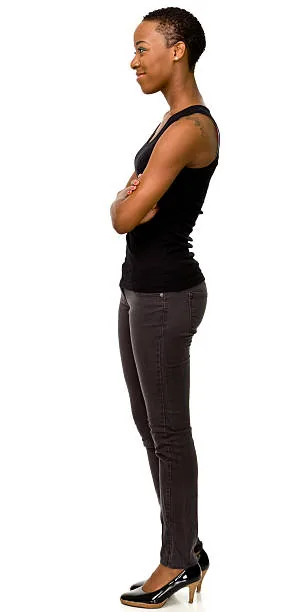
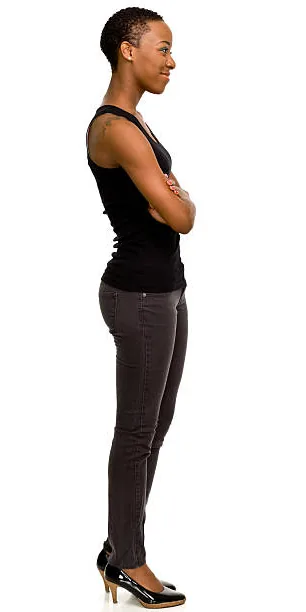
Make body and spine images consistently oriented, no mirrored text

Changed region(s): [[0.2647, 0.0, 0.7353, 1.0]]

diff --git a/site/index.html b/site/index.html
@@ -88,15 +88,15 @@
           <h3>La colonne vue de profil</h3>
           <div class="compare compare-tall">
             <figure>
-              <img src="img/colonne-1934.webp" width="472" height="795" loading="lazy" alt="Coupe anatomique ancienne du tronc, de profil, avec la colonne vertébrale à droite, l'estomac et la vessie à gauche ; deux flèches rouges désignent le dos et le bas du dos.">
+              <img src="img/colonne-1934.webp" width="472" height="795" loading="lazy" alt="Coupe anatomique ancienne du tronc, de profil, avec la colonne vertébrale à gauche, l'estomac et la vessie à droite ; deux flèches rouges désignent le dos et le bas du dos.">
               <figcaption><strong>1934.</strong> Coupe tirée de <a href="#ref-pauchet"><cite>L'Anatomie en poche</cite></a> (V. Pauchet et S. Dupret).</figcaption>
             </figure>
             <figure>
-              <img src="img/colonne-moderne.webp" width="195" height="950" loading="lazy" alt="Planche d'anatomie moderne : colonne vertébrale humaine vue de profil, du rachis cervical au sacrum, le dos orienté vers la droite.">
+              <img src="img/colonne-moderne.webp" width="195" height="950" loading="lazy" alt="Planche d'anatomie moderne : colonne vertébrale humaine vue de profil, du rachis cervical au sacrum, le dos orienté vers la gauche.">
               <figcaption><strong>Aujourd'hui.</strong> Planche d'anatomie moderne (<a href="https://www.chirurgie-rachidienne.com/anatomie-2/">chirurgie-rachidienne.com</a>).</figcaption>
             </figure>
           </div>
-          <p class="src">La planche de 1934 est retournée horizontalement (son texte apparaît donc inversé) et la planche moderne est présentée sans ses légendes, pour que les deux colonnes soient orientées comme les corps ci-dessus, dos à droite. Ces images sont des représentations, pas des mesures : elles servent à comparer visuellement.</p>
+          <p class="src">La planche moderne est retournée horizontalement et présentée sans ses légendes, et les photographies de l'ouvrier et de la femme sont retournées, pour que tous les corps et colonnes soient orientés de la même façon, dos à gauche. Ces images sont des représentations, pas des mesures : elles servent à comparer visuellement.</p>
 
           <h3>Un sommet de cambrure plus bas</h3>
           <!-- TODO: verify — contenu de la thèse non consultable en ligne ; la notice theses.fr ne mentionne pas ce point. Aucune source indépendante trouvée qui mesure le sommet de la lordose dans le passé. -->
